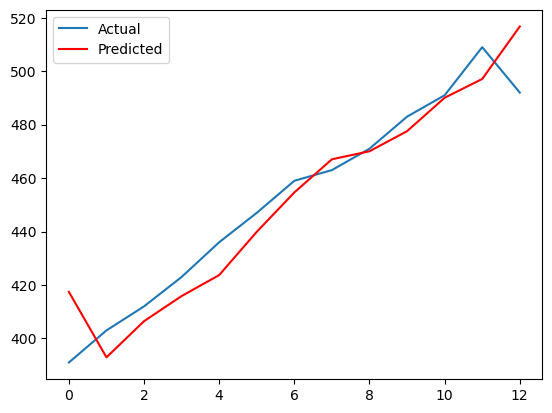
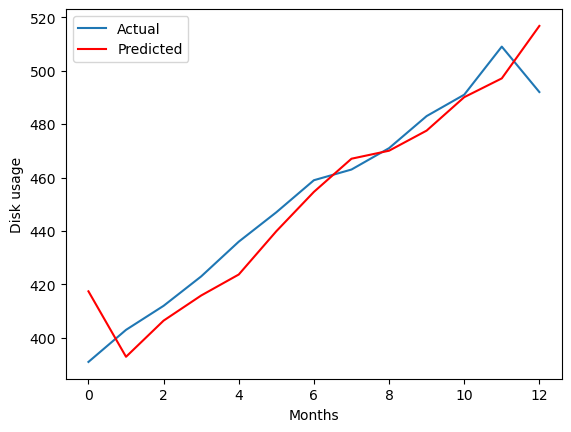
Corrected and added few links

Changed region(s): [[0.0, 0.0, 1.0, 0.9879], [0.3696, 0.5811, 0.4004, 0.6102]]

diff --git a/pgai/empstat/templates/pgai/model_details.html b/pgai/empstat/templates/pgai/model_details.html
@@ -1,24 +1,48 @@
 <!DOCTYPE html>
 <html>
+{% load static %}
+
+<div class="homebutton">
+    <a href="{% url 'home' %}">Home</a>
+  
+    
+    </div>
+
 <head>
     <title>Model Detail</title>
 </head>
-<body>
+
     <h1>Model Detail: {{ model_name }}</h1>
     
-    <h2>Sample Data Frame</h2>
-    {{ data_frame|safe }}
+    <h2>Sample Data of {{ model_name }}</h2>
+    <p>{{ data_frame|safe }}</p>
     
-    <h2>Summary Statistics</h2>
-    {{ describe|safe }}
+    <h2>{{ model_name }} Summary Statistics</h2>
+    <p>{{ describe|safe }}</p>
     
-    <h2>Data Frame Info</h2>
+    <h2> {{ model_name }} Info</h2>
     <pre>{{ info|safe }}</pre>
     
-    <a href="{% url 'data_analysis_model' model_name=model_name %}">Graphical Analysis</a>
+    <section>
+        <a href="{% url 'data_analysis_model' model_name=model_name %}">Graphical Analysis</a>
+    </section>
+    
+    {% if model_name == "Sales" %}
+        <section>
+            <a href="{% url 'sales_analysis' %}">Time Series Analysis</a>
+        </section>
+        
+    {% endif %}
 
+    {% if model_name == "WeatherData" %}
+        <section>
+            <a href="{% url 'timeseries_analysis' %}">Time Series Analysis</a>
+        </section>
+        
+    {% endif %}
 
+    <section>
+        <a href="{% url 'model_list' %}">Back to Model List</a>
+    </section>
 
-    <a href="{% url 'model_list' %}">Back to Model List</a>
-</body>
 </html>

diff --git a/pgai/empstat/static/css/styles.css b/pgai/empstat/static/css/styles.css
@@ -9,15 +9,26 @@ body {
     color: #ffffff; /* Set text color to white */
 }
 
+body a {
+    background-repeat: no-repeat;
+    background-size: cover;
+    background-position: center top;
+    text-align: center;
+    font-family: Arial, sans-serif; /* Choose an appropriate font-family */
+    color: #ffffff; /* Set text color to white */
+}
+
 /* Style the h1 element (project title) */
 h1 {
     font-size: 36px;
     margin-top: 100px; /* Adjust as needed for vertical alignment */
+    color: #ffffff
 }
 
 /* Style the h3 element (subtitle) */
 h3 {
     font-size: 24px;
+    color: #ffffff
 }
 
 /* Style the sections */
@@ -27,6 +38,7 @@ section {
     margin: 20px;
     border-radius: 10px;
     text-align: left;
+    
 }
 
 /* Style the section headings (h2) */
@@ -39,6 +51,7 @@ section h2 {
 section p {
     font-size: 16px;
     color: #ffffff; /* Set text color to white */
+    
 }
 
 section a {
@@ -51,6 +64,7 @@ section a {
     margin-top: 10px;
     font-weight: bold;
 }
+
 
 section a:hover {
     background-color: #0056b3; /* Change link background color on hover */

diff --git a/pgai/empstat/templates/pgai/home.html b/pgai/empstat/templates/pgai/home.html
@@ -4,29 +4,26 @@
 
 <html>
 
-<div class="homebutton">
-    <a href="{% url 'home' %}">Home</a>
-    </div>
-
 <head>
     <title>{{ project_title }}</title>
     <link rel="stylesheet" type="text/css" href="{% static 'css/styles.css' %}" >
 </head>
 <body>
-    <div class="background">
+    
+    <div class="h1">
         <h1>{{ project_title }}</h1>
         <h3>{{ subtitle }}</h3>
 
         <section>
             <h2>Data Analysis</h2>
             <p>{{ data_analysis_description }}</p>
-            <a href="{% url 'model_list' %}">Explore Data Analysis</a>
+            <a href="{% url 'model_list' %}">Explore >>></a>
         </section>
 
         <section>
             <h2>Forecasting</h2>
             <p>{{ forecasting_description }}</p>
-            <a href="{% url 'forecasting' %}">Explore Forecasting Abilities</a>
+            <a href="{% url 'forecasting' %}">Explore >>></a>
         </section>
     </div>
 </body>

diff --git a/pgai/empstat/templates/pgai/disk_usage_fc.html b/pgai/empstat/templates/pgai/disk_usage_fc.html
@@ -1,12 +1,21 @@
 {% load static %}
 
+<div class="homebutton">
+    <a href="{% url 'forecasting' %}">Back</a>
+    </div>
+
 <h1>Disk Usage Capacity Planing</h1>
 
-
-<img src="{% static 'pgai/'|add:chart_filename %}" alt="{{ Sales }} Disk Usage For 3 Years">
-
-
-<img src="{% static 'pgai/'|add:fc_chart %}" alt="{{ fc_chart }} Forecasted Disk Usage For Last 1 Year">
+<section>
+    <img src="{% static 'pgai/'|add:chart_filename %}" alt="{{ Sales }} Disk Usage For 3 Years">
+</section>
 
 
+<section>
+    <img src="{% static 'pgai/'|add:fc_chart %}" alt="{{ fc_chart }} Forecasted Disk Usage For Last 1 Year">
+</section>
 
+<section>
+
+    <h4>The disk usage can be reached to {{ max_capacity }} in next year. Please plan to procure required storage</h4>
+</section>

diff --git a/pgai/empstat/templates/pgai/shampoo_sales_fc.html b/pgai/empstat/templates/pgai/shampoo_sales_fc.html
@@ -1,12 +1,19 @@
 {% load static %}
 
+<div class="homebutton">
+    <a href="{% url 'forecasting' %}">Back</a>
+    </div>
+
 <h1>Shampoo Sales Forecasting</h1>
 
-
+<section>
 <img src="{% static 'pgai/'|add:chart_filename %}" alt="{{ Sales }} Shampoo Sales For 3 Years">
-
-
+</section>
+<section>
 <img src="{% static 'pgai/'|add:fc_chart %}" alt="{{ fc_chart }} Forecasted Shampoo Sales For Last 1 Year">
+</section>
 
-
+<section>
+    <h4>The Shampoo sales can reach 690, please be prepare for that and accomodate more resources.</h4>
+</section>
 

diff --git a/pgai/empstat/templates/pgai/disk_usage.html b/pgai/empstat/templates/pgai/disk_usage.html
@@ -1,5 +1,10 @@
 <!DOCTYPE html>
 <html>
+
+<div class="homebutton">
+    <a href="{% url 'forecasting' %}">Back</a>
+    </div>
+
 <head>
     <title>Disk Usage Details</title>
 </head>
@@ -14,8 +19,11 @@
     
     <h2>Data Frame Info</h2>
     <pre>{{ info|safe }}</pre>
+    <div>
+
+        <a href="{% url 'disk_usage_prediction' %}">Disk Usage Forecasting</a>
+    </div>
     
-    <a href="{% url 'disk_usage_prediction' %}">Disk Usage Forecasting</a>
 
 
 </body>

diff --git a/pgai/empstat/templates/pgai/Sales_Pridiction.html b/pgai/empstat/templates/pgai/Sales_Pridiction.html
@@ -1,5 +1,10 @@
 <!DOCTYPE html>
 <html>
+
+<div class="homebutton">
+    <a href="{% url 'forecasting' %}">Back</a>
+    </div>
+
 <head>
     <title>Shampoo Sales Details</title>
 </head>

diff --git a/pgai/empstat/templates/pgai/sales_analysis.html b/pgai/empstat/templates/pgai/sales_analysis.html
@@ -1,5 +1,10 @@
 {% load static %}
 
+<div class="homebutton">
+    <a href="{% url 'home' %}">Home</a>
+    </div>
+    
+
 <h1>Data Analysis</h1>
 
 {% if analysis_result %}

diff --git a/pgai/empstat/templates/pgai/ml_features.html b/pgai/empstat/templates/pgai/ml_features.html
@@ -1,5 +1,10 @@
 <!DOCTYPE html>
 <html>
+
+<div class="homebutton">
+    <a href="{% url 'home' %}">Home</a>
+    </div>
+
 <head>
     <title>Data Analysis</title>
 </head>

diff --git a/pgai/empstat/templates/pgai/data_analysis.html b/pgai/empstat/templates/pgai/data_analysis.html
@@ -1,5 +1,9 @@
 {% load static %}
 
+<div class="homebutton">
+    <a href="{% url 'home' %}">Home</a>
+    </div>
+
 <h1>Data Analysis</h1>
 
 {% if analysis_result %}

diff --git a/pgai/empstat/templates/pgai/model_list.html b/pgai/empstat/templates/pgai/model_list.html
@@ -3,7 +3,7 @@
 {% load static %}
 
 <div class="homebutton">
-    <a href="{% url 'home'%}">Home</a>
+    <a href="{% url 'home' %}">Home</a>
     </div>
 
 <head>

diff --git a/pgai/empstat/views.py b/pgai/empstat/views.py
@@ -436,7 +436,7 @@ def analyze_sales_data(data):
 
 def forecasting(request):
     # shows forecasting abilities
-    forecasting_abilities = ["Sales_Pridiction","Capacity_Planing","Future_trends","Stockmarket_prediction"]
+    forecasting_abilities = ["Sales_Pridiction","Capacity_Planing","Future_Trends","Stockmarket_Prediction"]
     model_data = []
     for ability in forecasting_abilities:
         model_data.append({
@@ -502,10 +502,10 @@ def Capacity_Planing(request,model_name):
 
     return render(request,'pgai/disk_usage.html', context)
 
-def Future_trends(request,model_name):
+def Future_Trends(request,model_name):
     pass
     
-def Stockmarket_prediction(request,model_name):
+def Stockmarket_Prediction(request,model_name):
     pass
 
 def shampoo_sales_prediction(request):
@@ -516,7 +516,7 @@ def shampoo_sales_prediction(request):
     plt.figure(figsize=(15, 6))
     df.plot()
     plt.title(f'Shampoo Sales for 3 years')
-    plt.xlabel('Year-Month')
+    plt.xlabel('Months')
     plt.ylabel('Sales')
     plt.xticks(rotation=45)
     plt.tight_layout()
@@ -543,7 +543,7 @@ def disk_usage_prediction(request):
     plt.figure(figsize=(15, 6))
     df.plot()
     plt.title(f'Disk Usage for 3 Years')
-    plt.xlabel('Year-Month')
+    plt.xlabel('months')
     plt.ylabel('Disk Usage in GBs')
     plt.xticks(rotation=45)
     plt.tight_layout()
@@ -554,6 +554,7 @@ def disk_usage_prediction(request):
     fc_chart = f'disk_usage_fc_last_year.png'
 
     context = {
+        'max_capacity' : "516.74MB",
         'chart_filename': chart_filename,
         'fc_chart': fc_chart
     }
